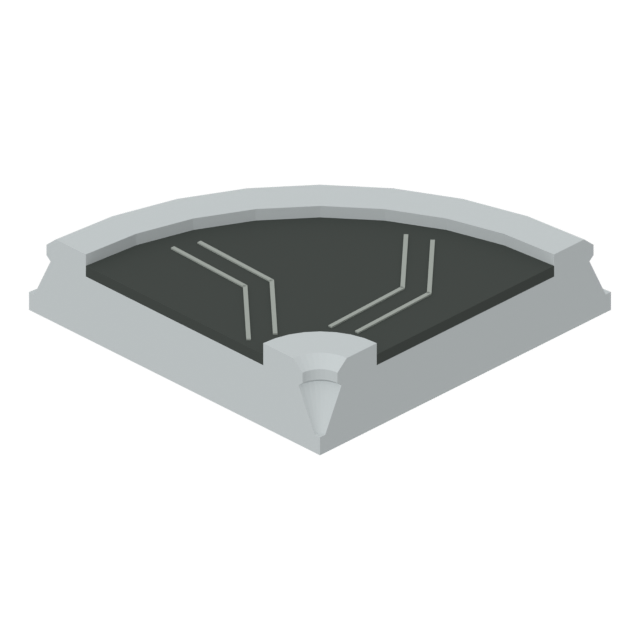
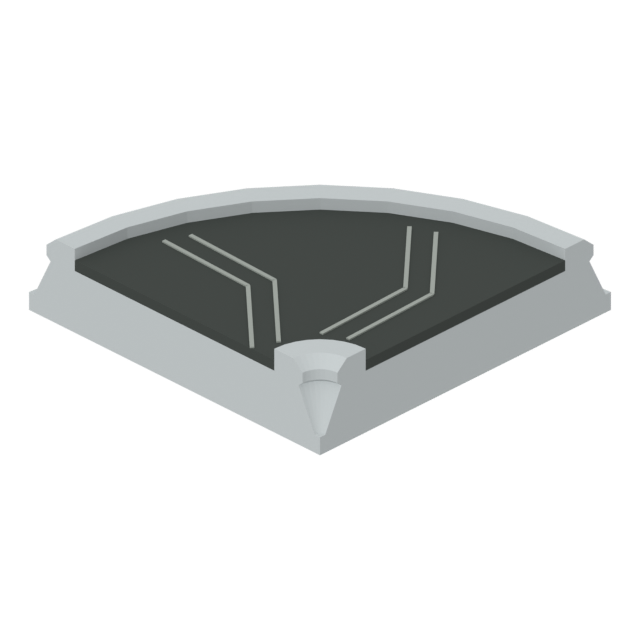
Thin rails again, and a wider belt
Standing the rail's wall up had left its head thick. The developer asked
for the frame as thin as before and the belt itself wider, so the rail
stays out where it is and the belt reaches out to it: 0.686 of a cell
wide instead of 0.61. The belt's width is set in one place (base.BH);
machine mouths, folding covers, the chassis collar, the dark of the
tunnels and the arrows now follow it instead of carrying their own
numbers.

Claude-Session: https://claude.ai/code/session_01W5XMnWw2PL68atZgiMiQxw

Changed region(s): [[0.0938, 0.3125, 0.9062, 0.5938]]

diff --git a/art/v2/base.py b/art/v2/base.py
@@ -24,7 +24,8 @@ G, T, TD, W, D, SLIT = "h_grey", "h_taupe", "h_taupe_d", "h_white", "h_dark", "h
 fk.PAL.update({"h_rail": fk.PAL["h_grey"], "h_rail_d": fk.PAL["h_dark"]})
 R, RD = "h_rail", "h_rail_d"
 SIDES = (-1, 1)                       # used both for the two sides of the belt and for the two ends
-BH, BZ = 0.305, 0.203                 # belt half width and belt surface height (the height was 0.305 until 2026-10-08:
+BH, BZ = 0.343, 0.203                 # belt half width and belt surface height. (The half width was 0.305 until 2026-10-08: the developer
+                                      # asked for the rails as thin as before and the belt itself wider. The height was 0.305 too:
                                       # the developer asked for the belt a third flatter, so that belts can be stacked
                                       # one above another with things passing between)
 BX, BY = 0.47, 0.43                   # half length and half width of the body block
@@ -391,13 +392,14 @@ def foundation_c(m, top=0.82):
         for s in SIDES:
             for z in (0.40, 0.70):
                 m.cyl(0.026, 0.02, (d * (BX + 0.145), s * 0.395, z), D, seg=6, axis="X")
-        m.box((0.02, 0.62, 0.40), (d * (BX + 0.012), 0, 0.50), SLIT)
+        m.box((0.02, 2 * BH + 0.01, 0.694 - BZ), (d * (BX + 0.012), 0, (0.706 + BZ) / 2), SLIT)
     return top
 
 
 # Foundation D's rail, from the belt's edge outward and down to the ground.
-# (Widened on 2026-10-08: with the belt flattened, the rail's long outer slope made the end of a belt look
-# like a steeply leaning parallelogram. The rail's head now stands further out and its wall is more upright.)
+# (2026-10-08: with the belt flattened, the rail's long outer slope made the end of a belt look like a steeply
+# leaning parallelogram, so the rail's wall was stood more upright, further out. That left the rail's head thick;
+# the developer asked for it thin again and the belt wider, so the belt now reaches out to the head: see BH.)
 RAIL_D = [(BH, 0.235), (0.408, 0.235), (0.44, 0.207), (0.44, 0.178), (0.426, 0.166), (0.482, 0.05),
           (0.50, 0.05), (0.50, 0.0)]
 # Where a bolt head sits on the rail's sloping outer wall: across, up, and how far the wall leans (from RAIL_D).
@@ -414,7 +416,7 @@ def chevrons2(m, x0, x1, step=0.375):
         xc = x0 + (i + 0.5) * (x1 - x0) / n
         for dx in (-0.035, 0.035):
             for s in SIDES:
-                m.box((0.011, 0.26, 0.004), (xc + dx, s * 0.12, BZ + 0.002), "h_line", rot=s * 0.36)
+                m.box((0.011, 0.30, 0.004), (xc + dx, s * 0.14, BZ + 0.002), "h_line", rot=s * 0.36)
 
 
 # ---- what the body stands on -------------------------------------------------------------------
@@ -529,7 +531,7 @@ def loft_x(m, stations, mk):
 # The collar a tunnel mouth stands on: the rail's own outline grown by about 0.034, so it reads as a clamp
 # wrapped round the rail rather than a block set down on it. Its toe rests on the rail's foot flange,
 # inside the flange's edge. Counter-clockwise, for the rail at +y.
-COLLAR = [(0.34, 0.03), (0.492, 0.03), (0.492, 0.104), (0.42, 0.284), (0.436, 0.30), (0.436, 0.342), (0.392, 0.385), (0.34, 0.385)]
+COLLAR = [(BH + 0.012, 0.03), (0.492, 0.03), (0.492, 0.104), (0.45, 0.284), (0.466, 0.30), (0.466, 0.342), (0.422, 0.385), (BH + 0.012, 0.385)]
 
 
 def collar(m, x0, x1, mk=R):
@@ -564,8 +566,9 @@ def foundation_d(m, top=0.82, foot=None):
         x0 = d * BX
         collar(m, *sorted((x0, x0 + d * 0.318)))               # a collar hugs each rail behind the end frame, which stands on the rail itself
         px = x0
-        folds = [(0.042, 0.84, 0.77, 0.315, R), (0.026, 0.77, 0.735, 0.335, RD)] * 4
-        for th, w, tp, hw, mk in folds + [(0.066, 0.88, 0.79, 0.315, R)]:
+        g = 2 * (BH - 0.305)                                  # the covers grow with the belt
+        folds = [(0.042, 0.84 + g, 0.77, BH + 0.01, R), (0.026, 0.77 + g, 0.735, BH + 0.03, RD)] * 4
+        for th, w, tp, hw, mk in folds + [(0.066, 0.88 + g, 0.79, BH + 0.01, R)]:
             a, b = sorted((px, px + d * th))
             m.prism(arch_pts(w, tp, hole_top=tp - 0.11, hw=hw, c=0.085, ci=0.035), a, b, "X", mk)
             px += d * th

diff --git a/art/v2/d.py b/art/v2/d.py
@@ -46,7 +46,7 @@ def chev(m, x, flow=1, z=BZ):
     """A pair of hairline chevrons on the belt, pointing the way it runs."""
     for dx in (-0.035, 0.035):
         for s in SIDES:
-            m.box((0.011, 0.26, 0.004), (x + dx, s * 0.12, z + 0.002), "h_line", rot=flow * s * 0.36)
+            m.box((0.011, 0.30, 0.004), (x + dx, s * 0.14, z + 0.002), "h_line", rot=flow * s * 0.36)
 
 
 def buttress(m, x):
@@ -75,11 +75,12 @@ def cover(m, x0, d, sole=True):
     if sole:
         collar(m, *sorted((x0, x0 + d * 0.318)))
     px = x0
-    for th, w, tp, hw, mk in [(0.042, 0.84, 0.77, 0.315, R), (0.026, 0.77, 0.735, 0.335, RD)] * 4 + [(0.066, 0.88, 0.79, 0.315, R)]:
+    g = 2 * (BH - 0.305)                                      # the covers grow with the belt
+    for th, w, tp, hw, mk in [(0.042, 0.84 + g, 0.77, BH + 0.01, R), (0.026, 0.77 + g, 0.735, BH + 0.03, RD)] * 4 + [(0.066, 0.88 + g, 0.79, BH + 0.01, R)]:
         a, b = sorted((px, px + d * th))
         m.prism(arch_pts(w, tp, hole_top=tp - 0.11, hw=hw, c=0.085, ci=0.035), a, b, "X", mk)
         px += d * th
-    m.box((0.02, 0.62, 0.694 - BZ), (x0 + d * 0.012, 0, (0.706 + BZ) / 2), SLIT)        # the dark of the tunnel, from the belt up
+    m.box((0.02, 2 * BH + 0.01, 0.694 - BZ), (x0 + d * 0.012, 0, (0.706 + BZ) / 2), SLIT)        # the dark of the tunnel, from the belt up
 
 
 def block(m, top=0.82):
@@ -116,8 +117,8 @@ def mouth(m, side, out=False, tall=0.74):
     with frame(m, origin, inward):
         m.prism(SECTION, 0.0, 0.08, "X", R)
         m.box((0.08, BH * 2, 0.03), (0.04, 0, BZ - 0.015), "h_belt")
-        m.prism(arch_pts(0.82, tall, hole_top=tall - 0.12, hw=0.315, c=0.085, ci=0.035), 0.0, 0.075, "X", R)
-        m.box((0.02, 0.62, tall - 0.12 - BZ), (0.068, 0, (tall - 0.12 + BZ) / 2), SLIT)
+        m.prism(arch_pts(0.82 + 2 * (BH - 0.305), tall, hole_top=tall - 0.12, hw=BH + 0.01, c=0.085, ci=0.035), 0.0, 0.075, "X", R)
+        m.box((0.02, 2 * BH + 0.01, tall - 0.12 - BZ), (0.068, 0, (tall - 0.12 + BZ) / 2), SLIT)
         k = -1 if out else 1
         m.prism([(-0.07, tall - 0.085 + k * 0.03), (0.07, tall - 0.085 + k * 0.03), (0.0, tall - 0.085 - k * 0.03)],
                 -0.004, 0.079, "X", "h_line")                 # an arrowhead on the arch: down is in, up is out

diff --git a/art/v2/set2.py b/art/v2/set2.py
@@ -1240,10 +1240,10 @@ def former2(m):
     for sx in SIDES:
         a, b = sorted((sx * (X - 0.01), sx * (X + 0.15)))
         with m.at((0, yb, 0)):
-            m.prism(arch_pts(0.90, 0.84, hole_top=0.705, hw=0.315, c=0.11, ci=0.05), a, b, "X", T)
+            m.prism(arch_pts(0.96, 0.84, hole_top=0.705, hw=BH + 0.01, c=0.11, ci=0.05), a, b, "X", T)
             a2, b2 = sorted((sx * (X + 0.15), sx * (X + 0.185)))
-            m.prism(arch_pts(0.78, 0.775, hole_top=0.705, hw=0.315, c=0.085, ci=0.05), a2, b2, "X", LT)
-            m.box((0.02, 0.62, 0.694 - BZ), (sx * (X + 0.02), 0, (0.706 + BZ) / 2), SLIT)
+            m.prism(arch_pts(0.86, 0.775, hole_top=0.705, hw=BH + 0.01, c=0.085, ci=0.05), a2, b2, "X", LT)
+            m.box((0.02, 2 * BH + 0.01, 0.694 - BZ), (sx * (X + 0.02), 0, (0.706 + BZ) / 2), SLIT)
             m.prism([(sx * x, z) for x, z in ((X - 0.03, 0.83), (X - 0.03, 0.985), (X + 0.03, 0.985), (X + 0.14, 0.87), (X + 0.14, 0.83))],
                     -0.34, 0.34, "Y", ST)                     # the hood
         with on_end(m, sx, sx * X, -0.20, 0.66):
@@ -1545,10 +1545,10 @@ def blast5(m):
     def mouth(sx, y):                                         # a thick frame round the belt, a liner, the dark of the tunnel, a hood
         with m.at((0, y, 0)):
             a_, b_ = sorted((sx * (X - 0.01), sx * (X + 0.15)))
-            m.prism(arch_pts(0.92, 0.86, hole_top=0.705, hw=0.315, c=0.11, ci=0.05), a_, b_, "X", G)
+            m.prism(arch_pts(0.96, 0.86, hole_top=0.705, hw=BH + 0.01, c=0.11, ci=0.05), a_, b_, "X", G)
             a_, b_ = sorted((sx * (X + 0.15), sx * (X + 0.185)))
-            m.prism(arch_pts(0.80, 0.79, hole_top=0.705, hw=0.315, c=0.085, ci=0.05), a_, b_, "X", LT)
-            m.box((0.02, 0.62, 0.694 - BZ), (sx * (X + 0.02), 0, (0.706 + BZ) / 2), SLIT)
+            m.prism(arch_pts(0.86, 0.79, hole_top=0.705, hw=BH + 0.01, c=0.085, ci=0.05), a_, b_, "X", LT)
+            m.box((0.02, 2 * BH + 0.01, 0.694 - BZ), (sx * (X + 0.02), 0, (0.706 + BZ) / 2), SLIT)
             m.prism([(sx * x, z) for x, z in ((X - 0.03, 0.85), (X - 0.03, 1.02), (X + 0.03, 1.02), (X + 0.14, 0.895), (X + 0.14, 0.85))],
                     -0.36, 0.36, "Y", ST)
 

diff --git a/docs/modeling-principles.md b/docs/modeling-principles.md
@@ -90,6 +90,7 @@
 개발자: "모든 벨트를 우리가 새로 만든 모델에 맞게(규격, 스타일) 다 맞춰서 새로 짜 봐. 모든 컨베이어 벨트는 자연스럽게 이어져야 함. 좌우로 꺾이는 벨트, 위로 올라가는 벨트 등 모든 접합부는 자연스럽게 이어져야 함을 잊지 말 것"(2026-10-07). 벨트 조각은 `art/v2/belts.py`에 있습니다.
 
 - **벨트는 낮고 납작합니다.** 벨트 면의 높이는 0.203칸(0.6스터드), 난간 꼭대기는 0.235칸입니다. 처음에는 0.305칸과 0.352칸이었는데, 개발자가 "벨트 높이부터 좀 줄이자, 한 1/3 정도만 납작하게. 새티스팩토리 보니까 벨트를 수직으로 쌓아서 아이템이 그 사이를 지나가더라"고 해서 3분의 2로 낮췄습니다(2026-10-08). 한 칸 위에 벨트를 또 놓으면 아래 벨트의 면에서 위 벨트의 밑까지 0.8칸(2.4스터드)이 남습니다. 높이는 `base.BZ`와 `base.RAIL_D` 두 곳에서만 정하고, 볼트 자리와 터널의 어둠은 거기서 계산됩니다. 쌓은 벨트를 무엇이 받치는지는 아직 정하지 않았습니다(`belts_stack`의 그림에서는 떠 있습니다).
+- **난간은 얇고 벨트가 넓습니다.** 벨트의 폭은 0.686칸(2.06스터드), 난간 머리의 폭은 0.1칸쯤입니다. 벽을 세우느라 난간 머리가 두꺼워지자 개발자가 "프레임은 전처럼 적당히 얇고 벨트 자체의 폭이 좀 넓어졌으면 좋겠다"고 해서, 난간을 바깥에 둔 채 벨트를 난간까지 넓혔습니다(2026-10-08). 폭은 `base.BH` 한 곳에서 정하고, 기계의 입구 덮개와 받침틀, 터널의 어둠, 화살표가 그 값을 따라갑니다. 기계 모델에 벨트 폭을 숫자로 직접 적지 않습니다.
 - **난간의 벽은 곧추세웁니다.** 납작하게 만든 직후에는 난간의 바깥 벽이 길게 누워 있어서, 벨트의 끝이 "너무 가파른 평행사변형처럼" 보였습니다(개발자). 난간 머리를 바깥으로 내어 몸통을 넓히고 벽을 세웠습니다.
 - **경사의 다리는 가는 틀입니다.** 굵은 기둥은 개발자가 "지금 너무 굵음"이라고 했습니다. 난간 밑의 가는 기둥, 작은 발, 두 기둥 사이의 가로대, 기둥에서 난간으로 올라가는 버팀대로 만듭니다. 다리가 없는 경사(`ramp_bare`)도 있어서 경사끼리 위아래로 겹쳐 놓을 수 있습니다.
 - **모든 조각은 같은 단면으로 끝납니다.** 난간과 바닥이 한 덩어리인 단면(`d.SECTION`)이 칸의 가장자리에서 직각으로 끝나므로, 어느 조각끼리든, 기계의 입구와도 턱 없이 이어집니다. 새 조각을 만들 때 이 단면을 바꾸거나 칸 가장자리에서 다른 모양으로 끝내지 않습니다.

diff --git a/docs/game-design.md b/docs/game-design.md
@@ -1648,3 +1648,4 @@ python3 art/build_catalog.py
 | 2026-10-07 | 열린 벨트를 없앰(개발자: "열린 벨트를 없애버려"). 게임 코드, 레시피, 모델에서 뺌. 옆에서 들어오는 흐름을 받는 일은 합류기가 맡음. 경사 벨트는 양 끝이 모두 수평이면 여러 개를 이을 때 꿀렁댄다는 개발자의 지적에 따라, 이웃에 따라 끝이 달라지는 네 모양으로 바꿈(모델만. 게임이 이웃을 보고 고르는 것은 아직 없음) |
 | 2026-10-08 | 8.22절: 게임 안에 세워 본 모델이 작아 보여(용광로가 허리 높이) 기계 크기를 키우기로 함. 벨트는 한 칸 그대로, 용광로는 4×2칸으로. 용광로 `smelter9`를 이 크기로 만듦. 나머지는 게임 안에서 확인한 뒤 |
 | 2026-10-08 | 벨트를 3분의 1 납작하게 함(벨트 면 0.305칸 → 0.203칸, 난간 0.352칸 → 0.235칸). 개발자: 벨트를 수직으로 쌓아 그 사이로 아이템이 지나가게 하려는 것. 모델만 바뀜. 게임의 벨트 높이와 쌓은 벨트의 받침은 아직 |
+| 2026-10-08 | 벨트의 단면을 다듬음: 난간 벽을 세우고, 난간은 얇게 둔 채 벨트 폭을 0.61칸에서 0.686칸으로 넓힘. 경사의 다리는 가는 틀로 바꾸고 다리 없는 경사를 더함(경사끼리 위아래로 겹쳐 놓을 수 있음). 모델만 |
